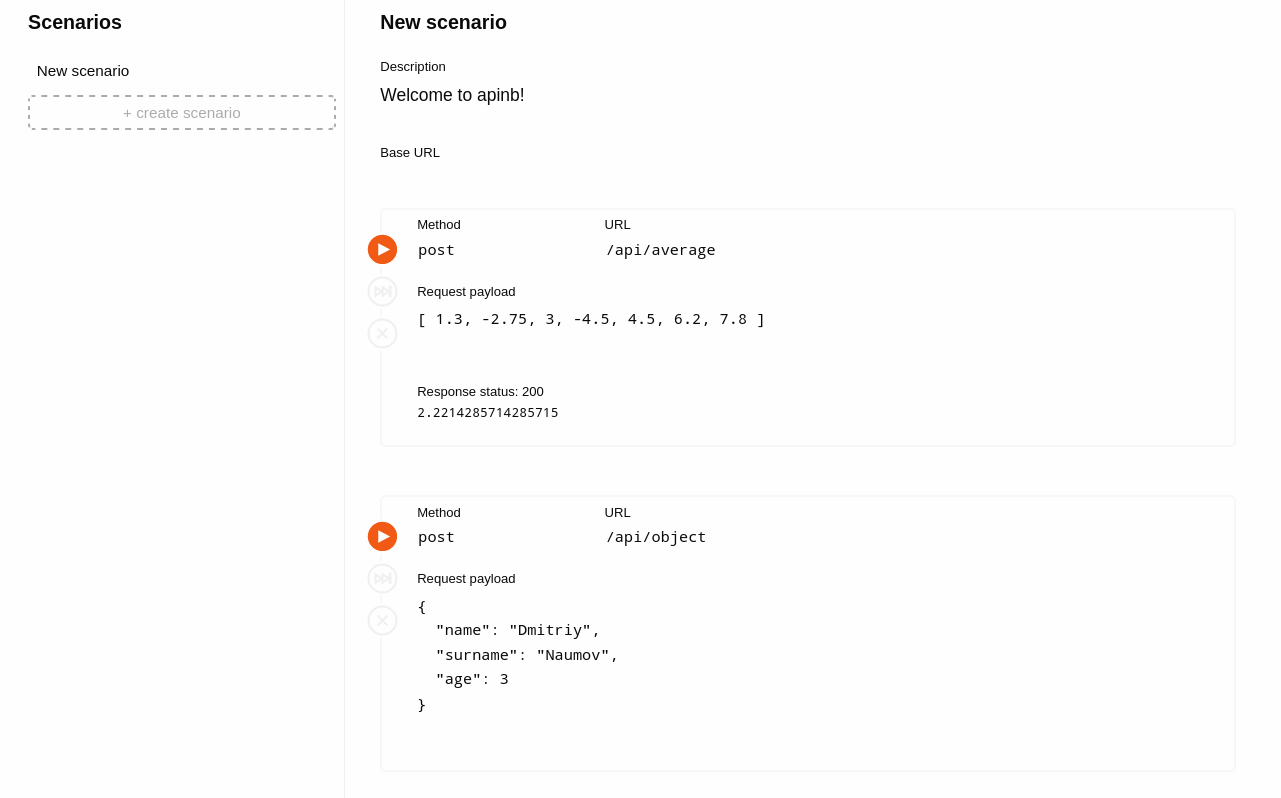
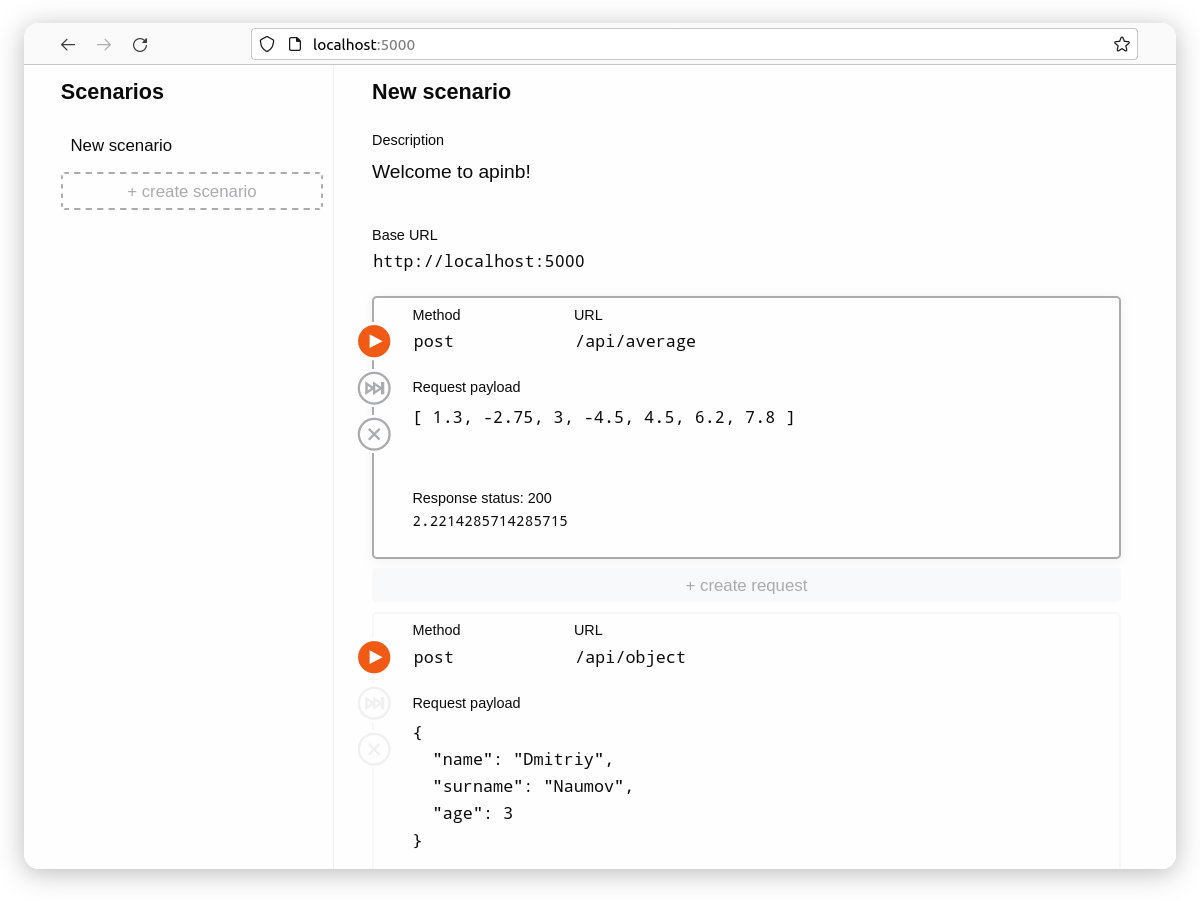
minor fixes

diff --git a/README.md b/README.md
@@ -27,15 +27,17 @@ This repository includes:
 ```
 cd Apinb
 npm run dev
+# open http://localhost:3000 in browser
 ```
 3. To run example server application:
 ```
 cd Apinb
-npm run build && \
-rm -rf ../ServerApp/wwwroot/* && \
-    cp -r ./dist/* ../ServerApp/wwwroot/
-    cd ../ServerApp
+npm run build
+rm -rf ../ServerApp/wwwroot/*
+cp -r ./dist/* ../ServerApp/wwwroot/
+cd ../ServerApp
 dotnet run
+# open http://localhost:5000 in browser
 ``` 
 
 ## Copyright
